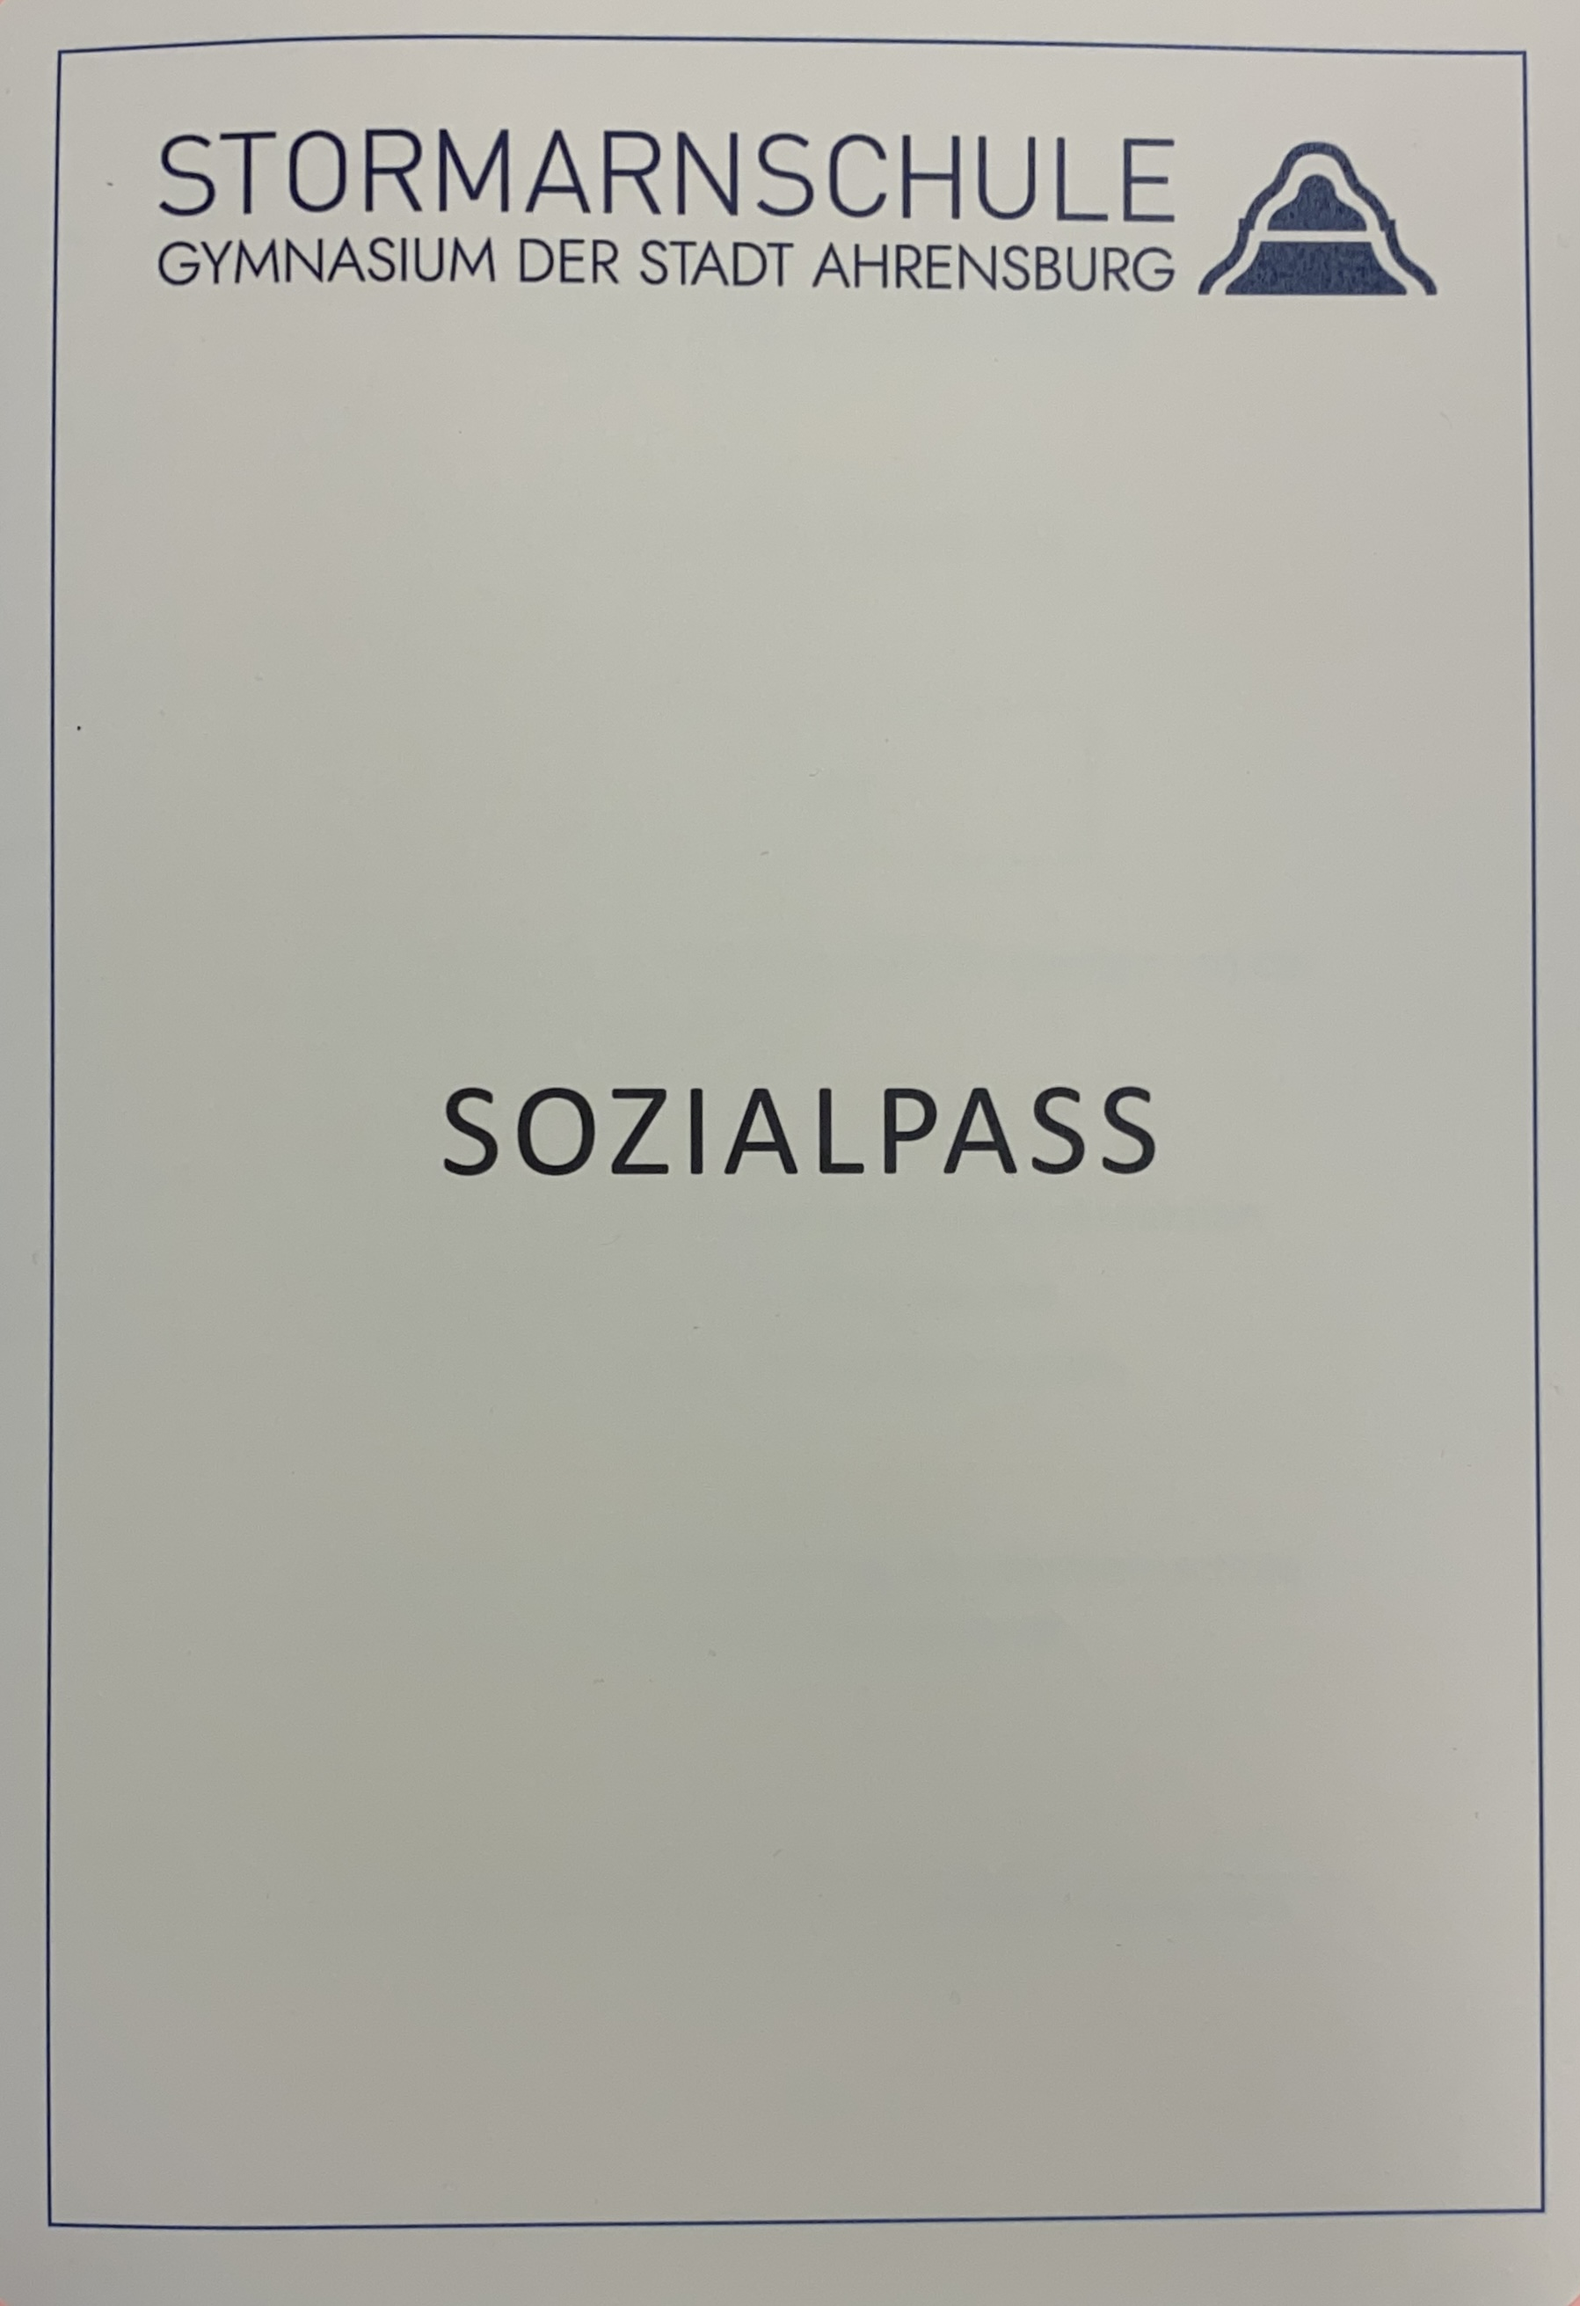
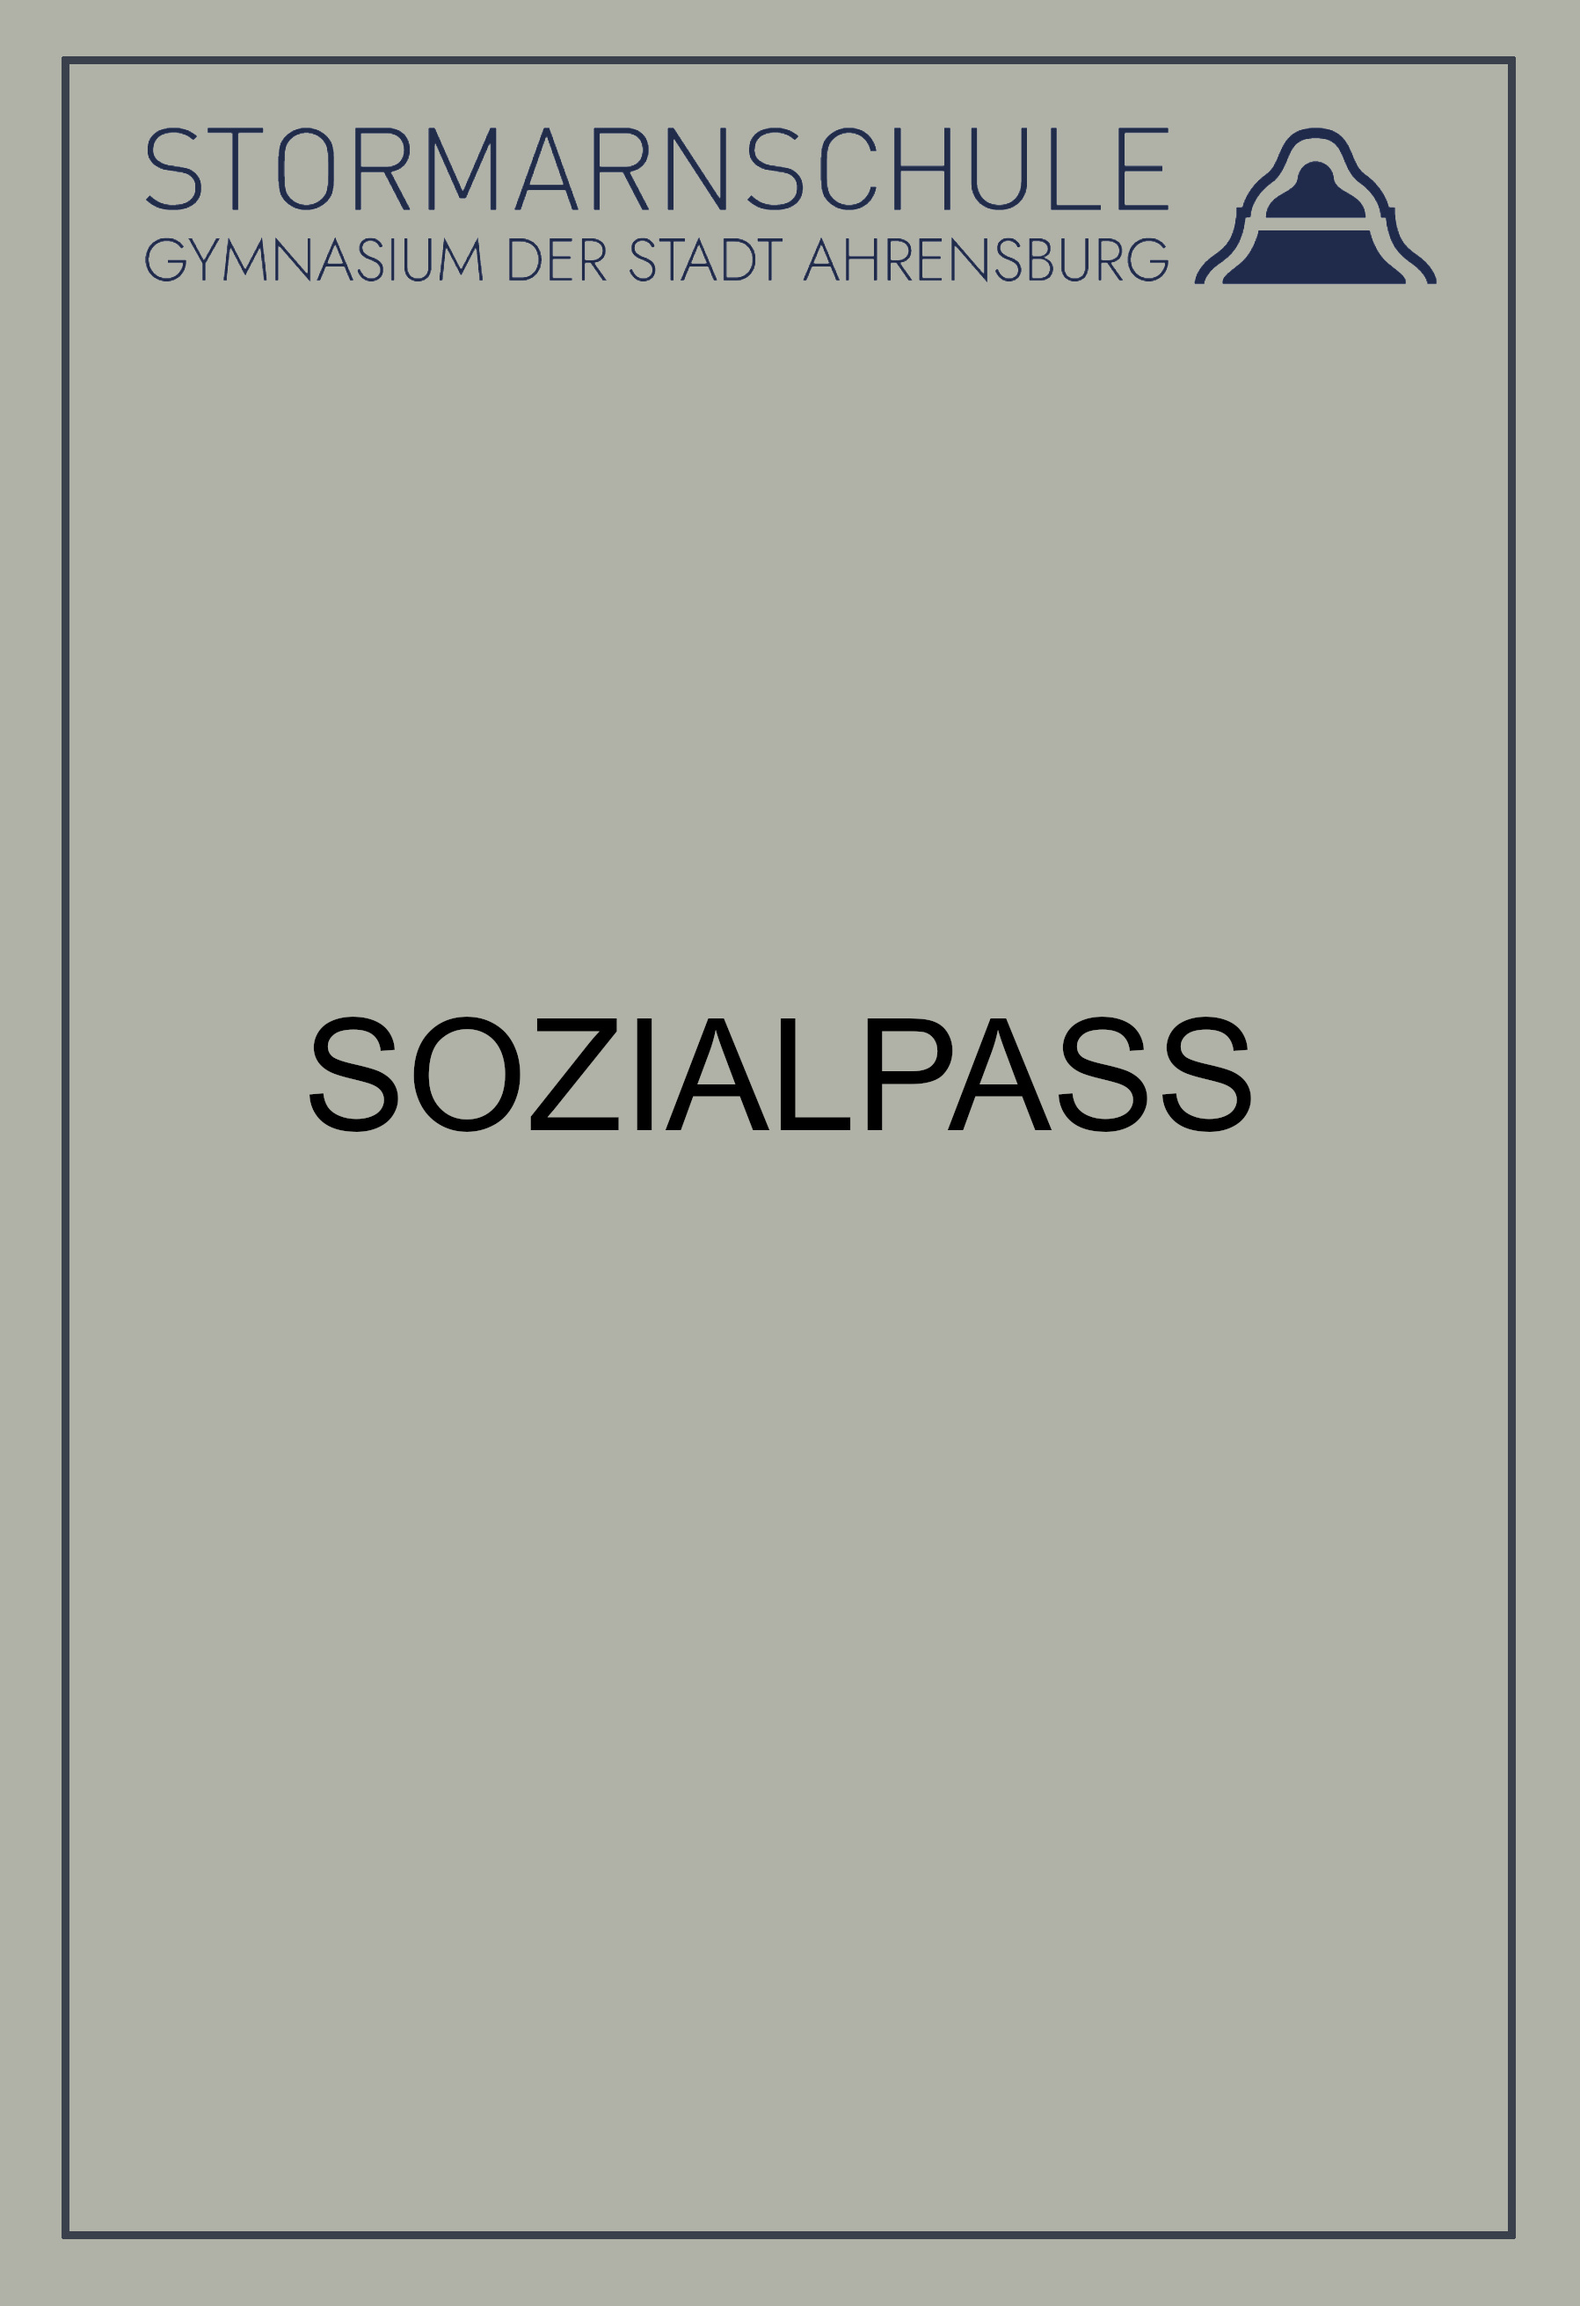
sozialpass cover on home page

Changed region(s): [[0.0, 0.0, 0.9972, 1.0], [0.187, 0.4325, 0.8102, 0.5252], [0.9972, 0.9886, 1.0, 1.0]]

diff --git a/css/style.css b/css/style.css
@@ -140,9 +140,33 @@ button:active {
   background-color: #363636;
   border: none;
 }
-.cover_img {
+.stormarn_logo_container {
+  background-color: var(--logo-back);
+  box-shadow: 0 0 13px 13px var(--logo-back);
+}
+.stormarn_logo {
+  width: auto;
+  max-width: 80%;
+  max-height: 95px;
+  margin: 10px;
+}
+.cover_img_container {
+  box-sizing: content-box;
+  padding: 10px;
+  margin: 40px auto;
   width: 600px;
-  height: 500px;
+  max-width: 85%;
+  height: min-content;
+  box-shadow: 0 0 20px 20px #b1b2a7;
+  background-color: #b1b2a7;
+  border: 1px solid #b1b2a7;
+  border-radius: 10px;
+}
+.cover_img {
+  border: 2px solid #b1b2a7;
+  background-color: #b1b2a7;
+  width: 600px;
+  height: auto;
   overflow-y: hidden;
   object-fit: contain;
 }

diff --git a/css/navigation.css b/css/navigation.css
@@ -216,13 +216,13 @@
     left: 88%;
 }
 .content {
-    margin-left: 58px;
-    width: calc(100% - 58px);
+    margin-left: 86px;
+    width: calc(100% - 86px);
     transition: all 0.5s ease;
 }
 .navigation.active ~ .content {
-    margin-left: 240px;
-    width: calc(100% - 240px);
+    margin-left: 268px;
+    width: calc(100% - 268px);
 }
 .navigationlinks:active {
     color: red;

diff --git a/css/dark.css b/css/dark.css
@@ -6,6 +6,8 @@
     --table-odd: #3c3c3c;
     --table-even: #4a4a4a;
 
+    --logo-back: #141831;
+
     --user: #00cccc;
     --user-h: #007777;
     --user-a: #00ff9d;

diff --git a/css/light.css b/css/light.css
@@ -6,6 +6,8 @@
     --table-odd: #c7dcdf;
     --table-even: #aec9c6;
 
+    --logo-back: #293d76;
+
     --user: #4765c5;
     --user-h: #6784e8;
     --user-a: #374e99;

diff --git a/index.php b/index.php
@@ -21,6 +21,15 @@
     }
   }
   ?>
-<div class="main" style="min-width: fit-content; height: min-content">
+
+<div class="stormarn_logo_container">
+    <img class="stormarn_logo" alt="stormarn logo" src="img/logo_stormarnschule.png">
+</div>
+
+<div class="main" style="min-width: fit-content; height: min-content; display: none">
     <p>Moin <?php echo($_SESSION["nick"]); ?>!</p>
+</div>
+
+<div class="cover_img_container">
+    <img class="cover_img" alt="sozialpass cover" src="img/sozialpass.jpeg">
 </div>
